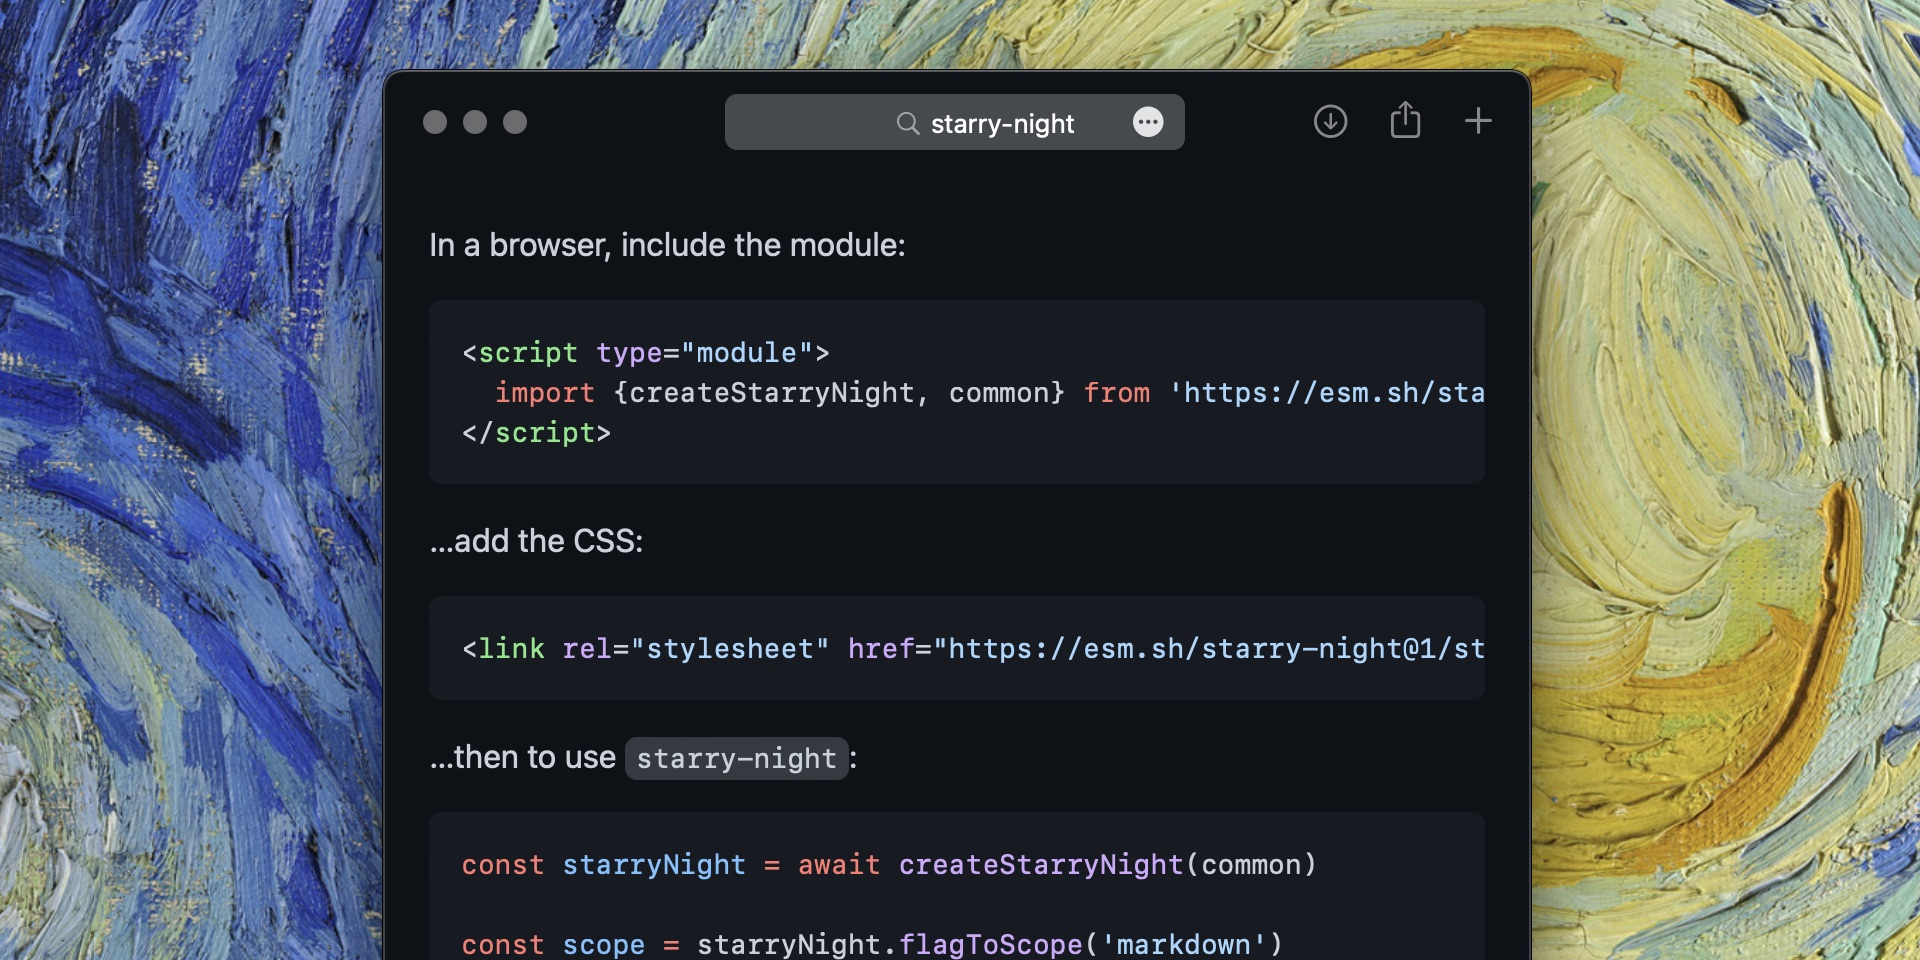
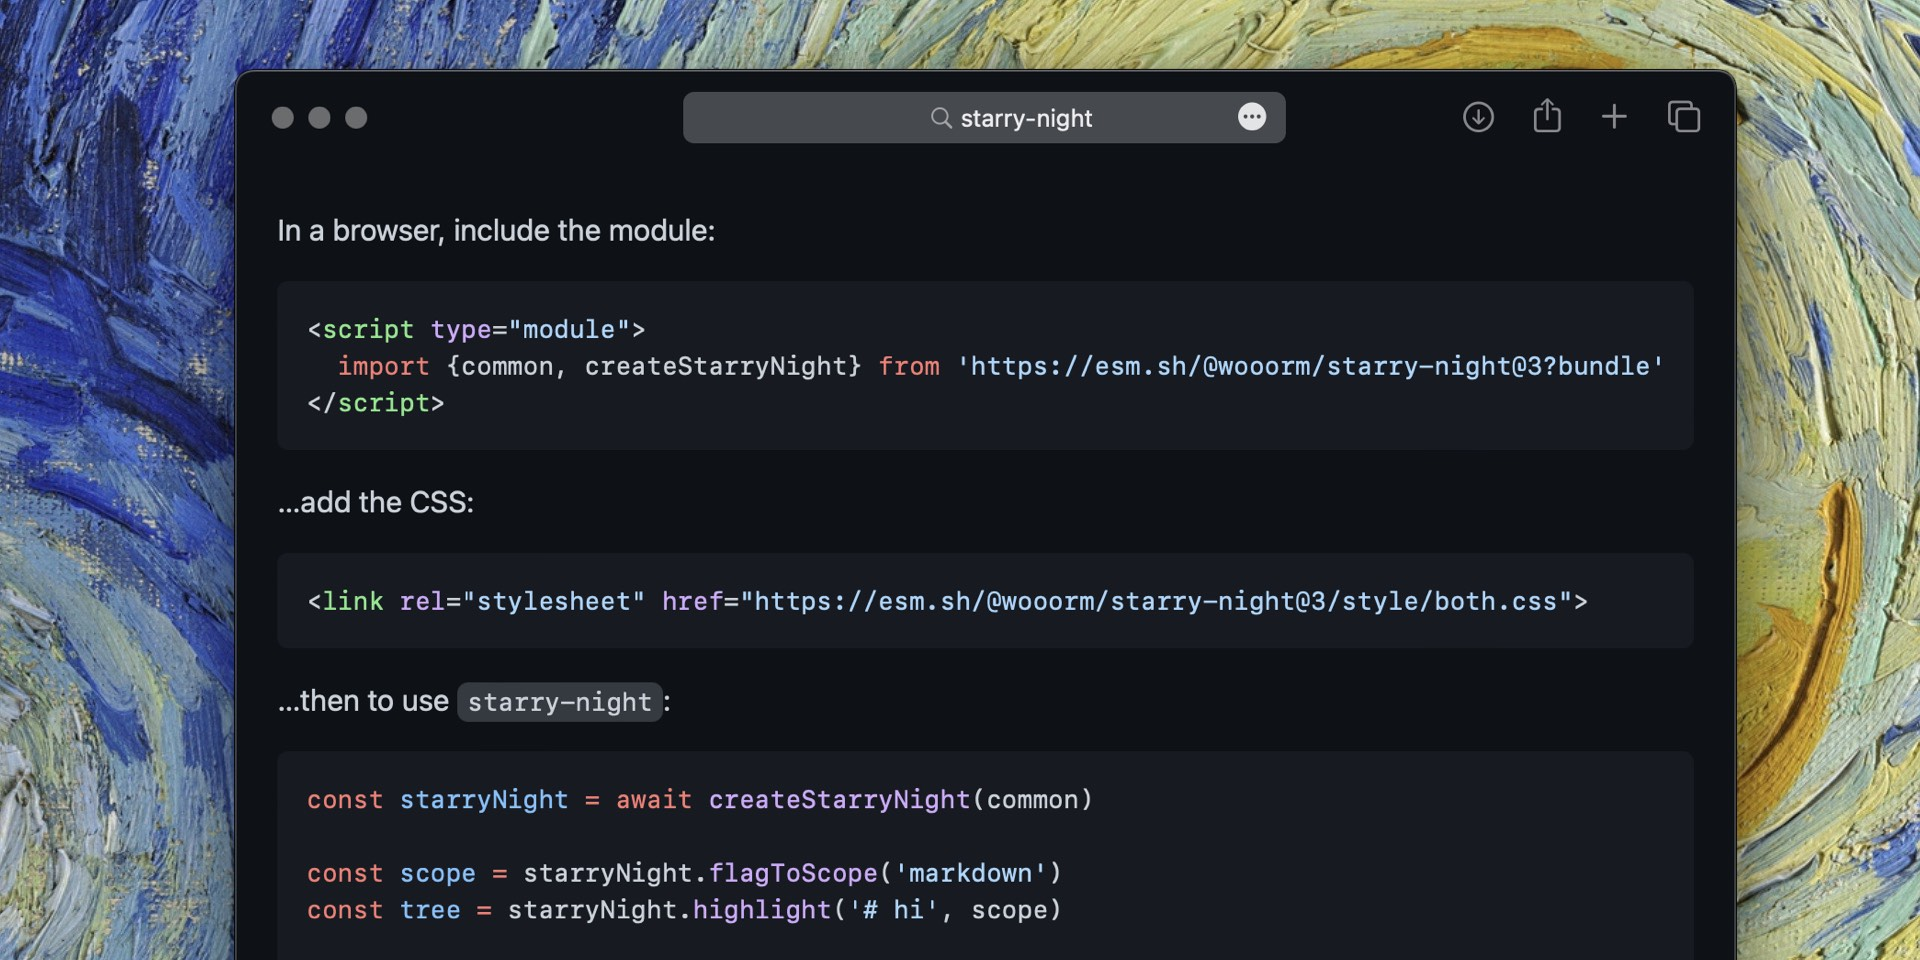
Regenerate screenshot

Changed region(s): [[0.0938, 0.0625, 0.9375, 1.0]]

diff --git a/script/preview.js b/script/preview.js
@@ -25,13 +25,13 @@ body { max-width: 51.625rem; margin: calc(1em + 1ex) auto; padding: 0 calc(1em +
 <p>In a browser, include the module:</p>
 ${generate(
   `<script type="module">
-  import {common, createStarryNight} from 'https://esm.sh/@wooorm/starry-night@2?bundle'
+  import {common, createStarryNight} from 'https://esm.sh/@wooorm/starry-night@3?bundle'
 </script>`,
   'text.html.basic'
 )}
 <p>…add the CSS:</p>
 ${generate(
-  `<link rel="stylesheet" href="https://esm.sh/@wooorm/starry-night@2/style/both.css">`,
+  `<link rel="stylesheet" href="https://esm.sh/@wooorm/starry-night@3/style/both.css">`,
   'text.html.basic'
 )}
 <p>…then to use <code>starry-night</code>:</p>
